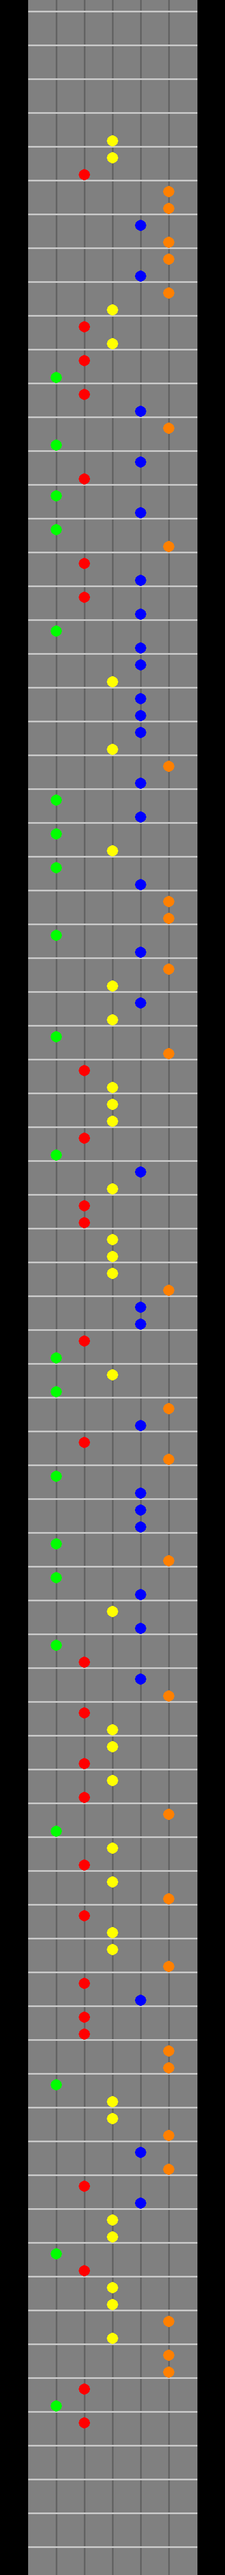
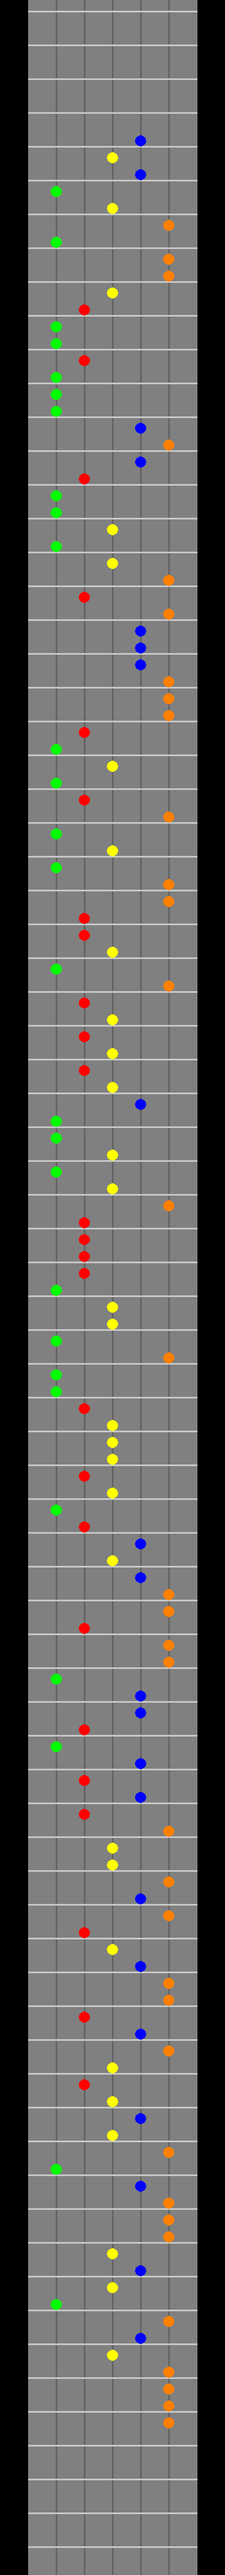
Testing new strategy for note detection

diff --git a/src/gh_pygame.py b/src/gh_pygame.py
@@ -3,6 +3,7 @@ Creating a Guitar Hero Clone Game
 """
 
 import random
+from ast import literal_eval
 
 import pygame
 from pygame import draw
@@ -50,11 +51,16 @@ def update_radius(old_radius):
     return new_r
 
 
-def draw_note_target():
+def draw_note_target(is_pressed=False):
     """Draws the note target at the end of the track"""
     target_y = 360
-    target_outer_radius = 20
-    target_inner_radius = 10
+    if is_pressed:
+        target_outer_radius = 10
+        target_inner_radius = 5
+
+    else:
+        target_outer_radius = 20
+        target_inner_radius = 10
 
     gray = (55, 55, 55)
 
@@ -146,14 +152,17 @@ if __name__ == "__main__":
 
     print(shouldBePressed)
 
-    # mylist = []
-    # with open('notes_chart6.txt', 'r') as f:
-    #     for line in f.readlines():
-    #         if len(line) > 1:
-    #             mylist.append(line)
-    # print(mylist)
-
-
+    with open('notes_chart6.txt', 'r') as f:
+        line = f.read()
+        print("Enter")
+        if len(line) > 0:
+            print('SPACE')
+            line = line.split('\n')
+    line.pop(-1)
+    mylist = []
+    for l in line:
+        mylist.append(literal_eval(l))
+    
     img = pygame.image.load('../chart5.png')
     img_rect = img.get_rect().size
     y = -img_rect[1] +380
@@ -185,12 +194,10 @@ if __name__ == "__main__":
 
         # Drawing Phase
         screen.fill(black)
-        # draw.polygon(screen, line_color, polygon_points)  # Path for the notes
         screen.blit(img, (0, y))
         draw_score(screen, str(SCORE), 25)
         draw_note_target()
-        # draw_notes(shouldBeDrawn)
-        # print(x, y)
+
         y += 1
         pygame.display.flip()
         clock.tick(60)

diff --git a/src/create_track.py b/src/create_track.py
@@ -61,9 +61,10 @@ for y in range(250, height, 30):
 
 pygame.display.flip()
 pygame.image.save(screen, '../chart6.png')
+
 with open("notes_chart6.txt", "w") as f:
     for note in notes:
         f.write(str(note))
-        # f.write('\n')
+        f.write('\n')
     f.close()
 # sleep(60)
